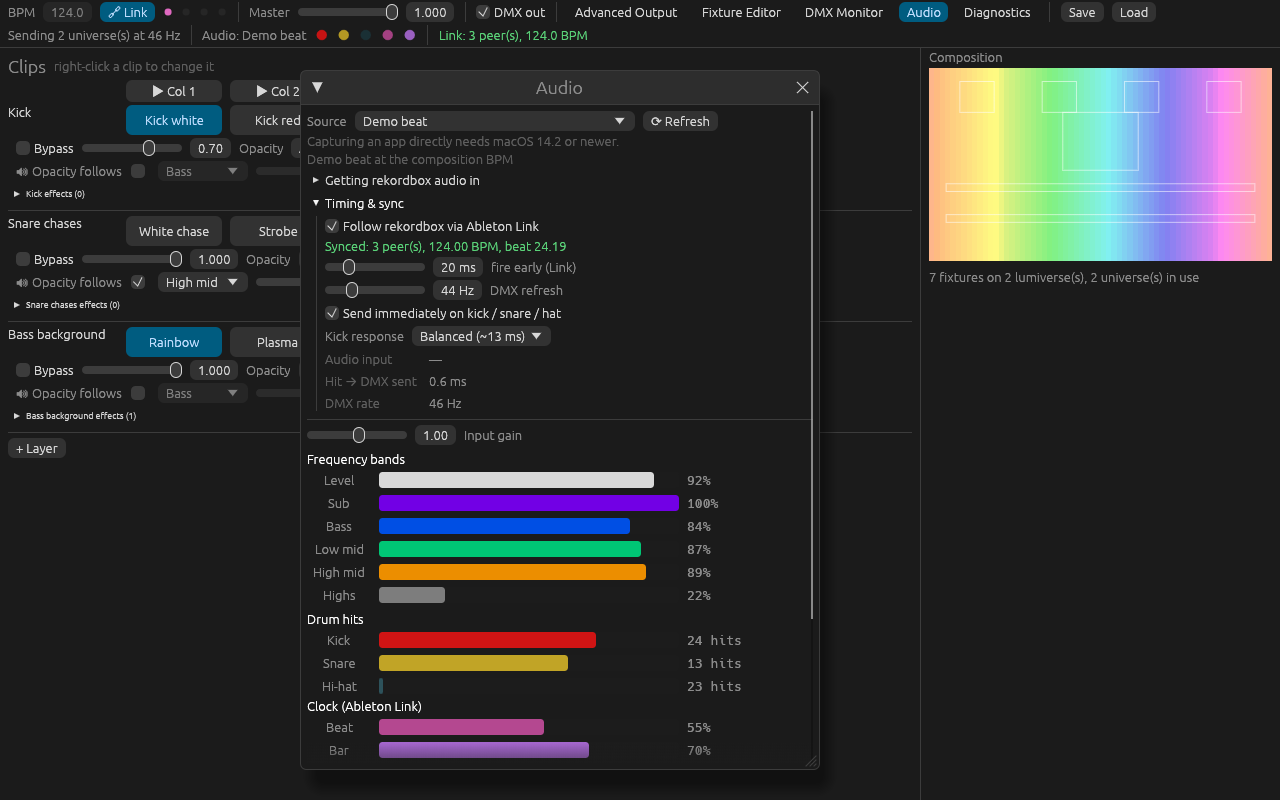
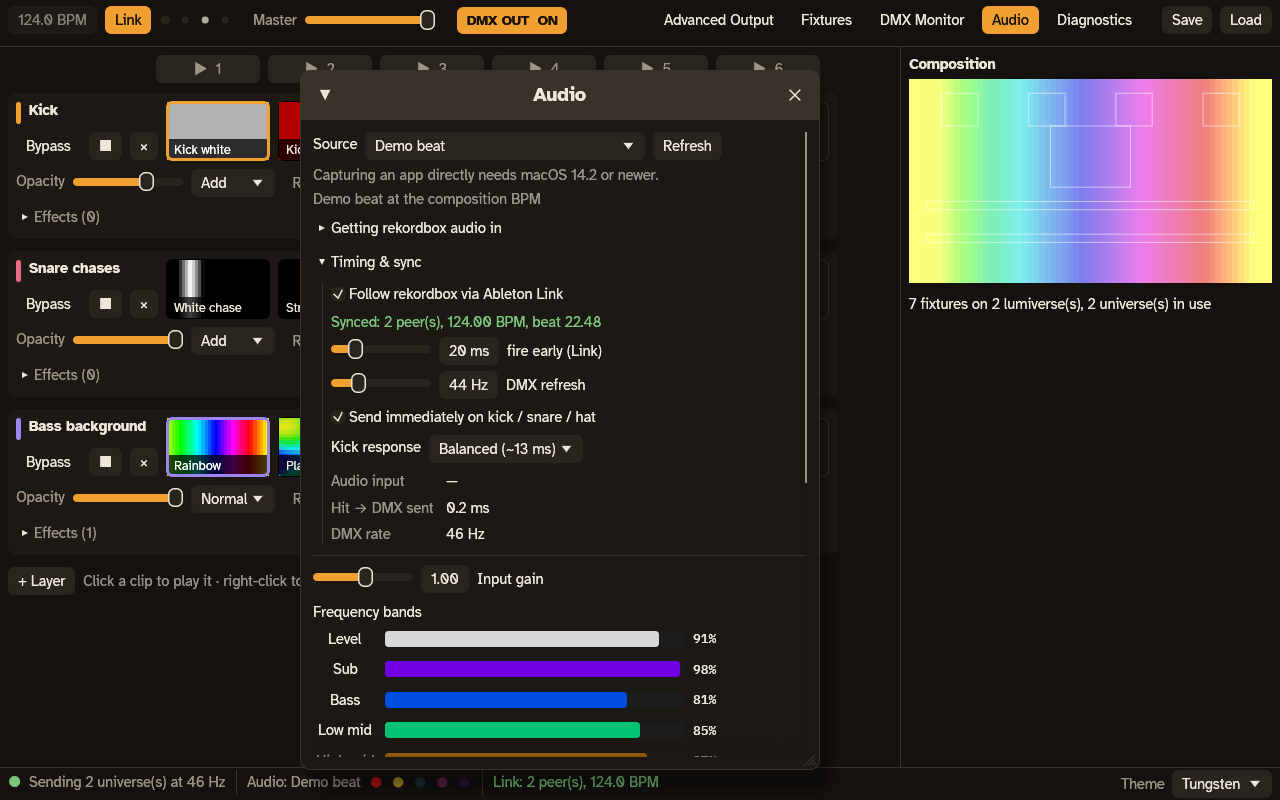
Remember chosen theme; fix bold text colour; README screenshots in the new look
Claude-Session: https://claude.ai/code/session_01PmxxkW6XBpCciejS6PZ3iJ

diff --git a/crates/lumen-app/src/theme.rs b/crates/lumen-app/src/theme.rs
@@ -110,6 +110,22 @@ pub fn set(ctx: &egui::Context, i: usize) {
     apply(ctx);
 }
 
+fn settings_file() -> std::path::PathBuf {
+    crate::paths::data_dir().join("theme.txt")
+}
+
+/// The theme chosen last time (by name), if any.
+pub fn saved() -> Option<usize> {
+    let name = std::fs::read_to_string(settings_file()).ok()?;
+    PRESETS.iter().position(|t| t.name == name.trim())
+}
+
+/// Switch theme and remember it for next launch.
+pub fn choose(ctx: &egui::Context, i: usize) {
+    set(ctx, i);
+    let _ = std::fs::write(settings_file(), current().name);
+}
+
 /// Atkinson Hyperlegible (designed for low-vision legibility) for text,
 /// IBM Plex Mono for numbers; egui's own fonts stay as fallbacks for symbols.
 pub fn install_fonts(ctx: &egui::Context) {
@@ -165,7 +181,8 @@ pub fn apply(ctx: &egui::Context) {
     for (wv, fill, fg) in [
         (&mut w.inactive, t.raised, t.text),
         (&mut w.hovered, t.hover, t.text),
-        (&mut w.active, t.accent, t.on_accent),
+        // Pressed. egui also uses this text colour for bold/strong labels, so it must be readable on the panel.
+        (&mut w.active, t.hover, t.text),
         (&mut w.open, t.hover, t.text),
     ] {
         wv.bg_fill = fill;

diff --git a/crates/lumen-app/src/main.rs b/crates/lumen-app/src/main.rs
@@ -252,7 +252,7 @@ impl View<'_> {
                     }
                 });
                 if i != theme::index() {
-                    theme::set(ui.ctx(), i);
+                    theme::choose(ui.ctx(), i);
                 }
                 ui.label(egui::RichText::new("Theme").color(t.weak));
             });
@@ -430,7 +430,7 @@ fn main() -> eframe::Result {
             if let Some(i) = args.iter().find_map(|a| a.strip_prefix("--theme=")).and_then(|s| s.parse().ok()) {
                 theme::set(&cc.egui_ctx, i);
             } else {
-                theme::apply(&cc.egui_ctx);
+                theme::set(&cc.egui_ctx, theme::saved().unwrap_or(0));
             }
             let mut app = LumenApp::new(gpu);
             apply_args(&mut app, &args);

diff --git a/README.md b/README.md
@@ -22,6 +22,7 @@ patched DMX fixtures, and the result goes out over Art-Net or sACN.
 
 | Area | Done |
 |---|---|
+| Look | Three dark themes (Tungsten, Gel, Stage) for dark venues, Atkinson Hyperlegible font, live clip thumbnails, colour per layer |
 | Composition | Layers × clip grid, column triggers, opacity / blend / bypass / effects per layer, master, BPM clock, right-click clip editing |
 | Generators | Solid, Rainbow, Strobe, Chase, Plasma, Audio flash, Bands |
 | Effects | Brightness, Hue shift, Invert, Pulse, Audio brightness, Audio hue |
@@ -118,6 +119,9 @@ Lumen's own code is MIT OR Apache-2.0. Builds with Ableton Link (the default
 `link` feature) include Ableton's GPL-2.0-or-later Link library, so those
 binaries are distributed under the GPL. Build with `--no-default-features`
 for a Link-free MIT/Apache build.
+
+Fonts: Atkinson Hyperlegible and IBM Plex Mono, SIL Open Font License 1.1
+(`crates/lumen-app/assets/fonts`).
 
 The built-in fixture definitions come from the [QLC+](https://github.com/mcallegari/qlcplus)
 project (Apache-2.0); see `crates/lumen-fixtures/assets/QLCPLUS-LICENSE.txt`.
